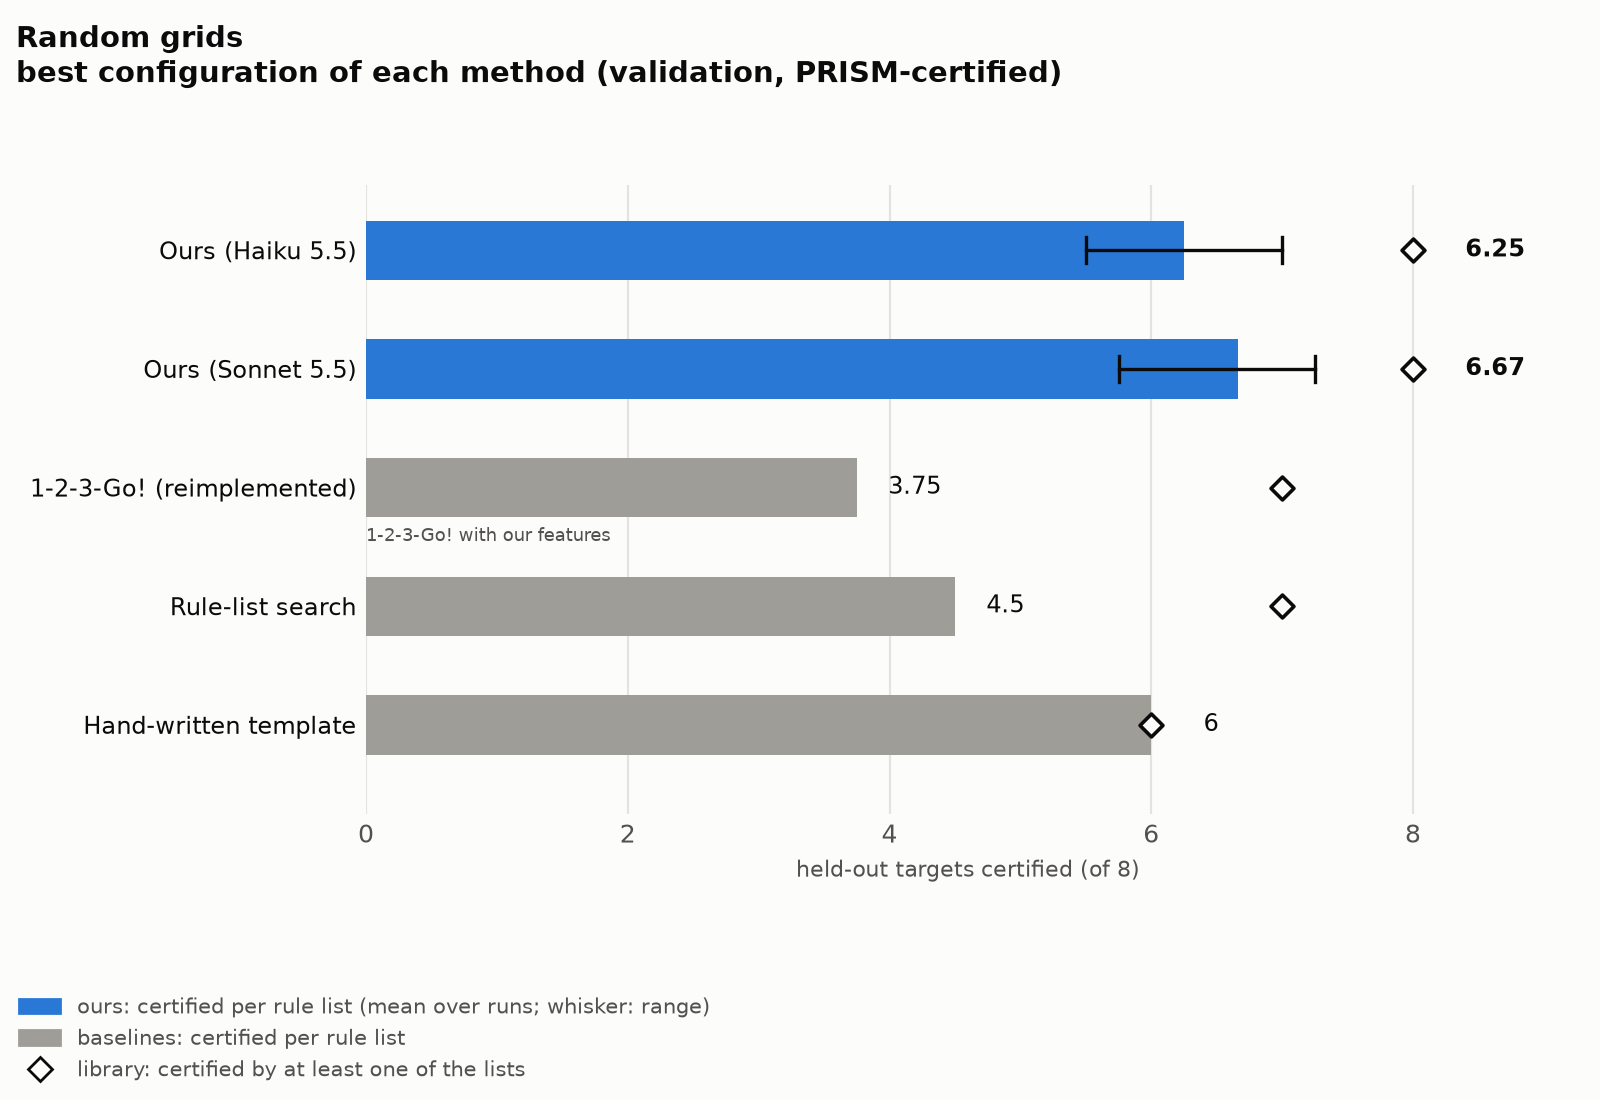
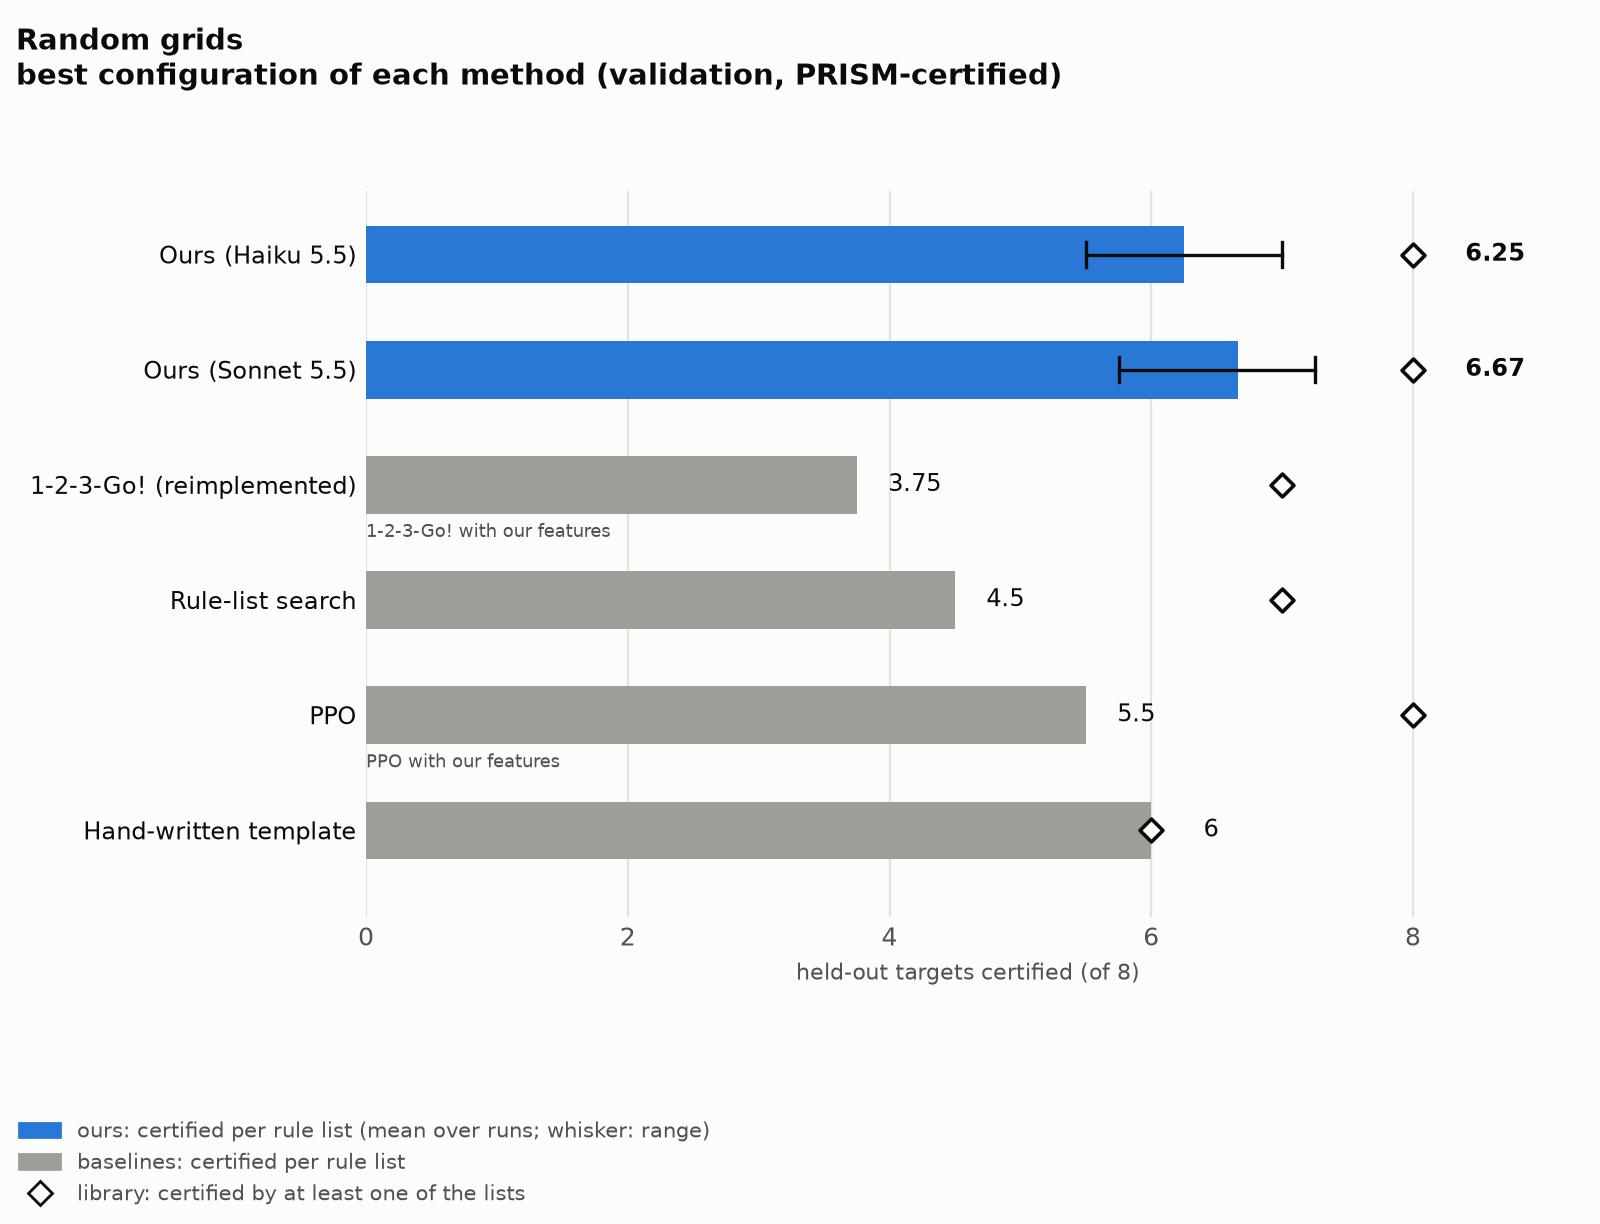
[plan 01] step 2: RQ1 complete, every baseline PRISM-certified; report, figures and index regenerated
Newly certified (held-out targets certified per rule list; best list; library):
- Random grids (8): PPO over our features 5.5 (7; 8), against 4/7/5/6 per set from the numpy model
  before; PPO with a MiniGrid-style local view 0.75 (2; 2).
- Families (60; certified on a list's own family, of 20): PPO with a local view 1.33 (rooms 4,
  crossing 0, adjacent 0); rule-list search with ties open 3.0 (rooms 7, crossing 2, adjacent 0),
  as written 6.0.
Best configuration per method (chosen.csv): PPO over our features on grids and families; trees over
our features on grids and families, and over raw variables on Pac-Man (plan 02's entries).

The Pac-Man horizon figure shows the methods of Asher's decision 2 (ours, 1-2-3-Go! reimplemented,
PPO; `methods` in horizon_figure), with the optimum, the threshold and 1-2-3-Go!'s published points;
every other Pac-Man method is in the table and in rq1_pacman.png.

RQ1 has no unchecked baseline. Still without a ties-open check: our own grid, no-closer, families and
Sonnet runs (not a baseline; the families ones are long).

Look at: out/results/experiments/rq1_comparison/REPORT.md, rq1_{grids,grids_noclose,families,pacman}.png,
rq1_pacman_horizon.png, chosen.csv; out/results/experiments/README.md.

diff --git a/PRISM-Guided-Learning/src/experiments/comparison.py b/PRISM-Guided-Learning/src/experiments/comparison.py
@@ -298,11 +298,13 @@ class Comparison(Experiment):
         spec = self.spec["horizon_figure"]
         published = spec.get("published") or {}
         beyond = {h: v for h, v in (published.get("points") or {}).items() if h > spec["max_horizon"]}
+        only = (f" The figure shows {', '.join(spec['methods'])}; the other methods are in the table above."
+                if spec.get("methods") else "")
         return (f"Worst-case {spec['value']} of each method's frozen lists (best configuration) per horizon, up to "
                 f"{spec['max_horizon']}: {spec.get('why_max', '')} Line: mean over the lists, band: their range; hollow "
                 f"markers: a list's own training horizons. {published.get('label', 'Published')}: "
                 + ", ".join(f"{v} at {h}" for h, v in (published.get("points") or {}).items())
-                + (f" ({', '.join(str(h) for h in beyond)} beyond the axis)." if beyond else "."))
+                + (f" ({', '.join(str(h) for h in beyond)} beyond the axis)." if beyond else ".") + only)
 
     def horizon_figure(self, best: Dict[Tuple[str, str], str]) -> Optional[Path]:
         """`horizon_figure` in the experiment file: one line per method (its best configuration on the benchmark),
@@ -318,7 +320,7 @@ class Comparison(Experiment):
         shown = {int(i): int(h) for i, h in horizons.items() if i not in hidden and h <= spec["max_horizon"]}
         column = f"worst_{spec['value']}"
         lines = []
-        for method in dict.fromkeys(self.methods().values()):
+        for method in spec.get("methods") or dict.fromkeys(self.methods().values()):
             name = best.get((bench.name, method))
             lists = [df[df.target.isin(shown)] for df in self._horizon_lists(bench, name)] if name else []
             lists = [df for df in lists if column in df and not df.empty]
@@ -348,9 +350,7 @@ class Comparison(Experiment):
             table = table.assign(horizon=table.target.map(shown))
             per = table.groupby("horizon")[column].agg(["mean", "min", "max"])
             ax.fill_between(per.index, per["min"], per["max"], color=color, alpha=0.15, linewidth=0, zorder=2)
-            several = sum(m == method for m in self.methods().values()) > 1
-            ax.plot(per.index, per["mean"], color=color, linewidth=2, zorder=3,
-                    label=method + (f" ({name})" if several else ""))
+            ax.plot(per.index, per["mean"], color=color, linewidth=2, zorder=3, label=method)
             trained = set(table[table.trained.astype(bool)].horizon)
             for h, v in per["mean"].items():
                 ax.plot([h], [v], marker="o", markersize=6, zorder=4, markeredgewidth=1.5,
@@ -361,9 +361,9 @@ class Comparison(Experiment):
             ax.plot(list(points), list(points.values()), linestyle="none", marker="D", markersize=8, color=BASELINE,
                     markeredgecolor=SURFACE, markeredgewidth=1.5, zorder=4, label=published.get("label", "published"))
         ends.sort()
-        for k in range(1, len(ends)):                # direct labels, kept apart
+        for k in range(1, len(ends)):                # direct labels, kept apart (up to four lines)
             ends[k][0] = max(ends[k][0], ends[k - 1][0] + 0.022)
-        for v, x, method in ends:
+        for v, x, method in ends if len(ends) <= 4 else []:
             ax.text(x_end + 0.6, v, method, fontsize=8, color=INK, va="center")
         ax.set_xticks(xs_all)
         ax.set_xlim(xs_all[0] - 0.8, x_end + 7.5)
@@ -371,7 +371,8 @@ class Comparison(Experiment):
         ax.set_xlabel("horizon (moves); hollow markers: the lists' training horizons", fontsize=8.5, color=INK_2)
         style(ax, f"{short_label(bench)}: worst-case crash probability per horizon (best configuration of each method)",
               "worst-case crash probability (lower is better)")
-        ax.legend(loc="upper left", fontsize=7.5, frameon=False, labelcolor=INK_2)
+        ax.legend(loc="upper center", bbox_to_anchor=(0.5, -0.14), ncol=3, fontsize=7.5, frameon=False,
+                  labelcolor=INK_2)
         fig.tight_layout()
         path = self.out / f"rq1_{bench.name}_horizon.png"
         fig.savefig(path, dpi=200, facecolor=SURFACE)

diff --git a/PRISM-Guided-Learning/out/results/experiments/rq1_comparison/REPORT.md b/PRISM-Guided-Learning/out/results/experiments/rq1_comparison/REPORT.md
@@ -17,8 +17,8 @@ Targets 12-19: 8 held out (each list's own training instances are left out).
 | 1-2-3-Go! (reimplemented) | 1-2-3-Go! (reimplemented: trees over raw variables) |  | – | 0.00 | 0.00 | 0 | 0.0 | 0.00 | – | – |
 | 1-2-3-Go! (reimplemented) | 1-2-3-Go! with our features | ✓ | – | 3.75 | 3.75 | 7 | 7.0 | 3.75 | – | – |
 | Rule-list search | Rule-list search | ✓ | – | 4.50 | 4.50 | 7 | 7.0 | 2.75 | – | – |
-| PPO | PPO with our features (1 unchecked) |  | – | – | – | – | – | – | – | – |
-| PPO | PPO with a MiniGrid-style local view (1 unchecked) |  | – | – | – | – | – | – | – | – |
+| PPO | PPO with our features | ✓ | – | 5.50 | 5.50 | 7 | 8.0 | 5.50 | – | – |
+| PPO | PPO with a MiniGrid-style local view |  | – | 0.75 | 0.75 | 2 | 2.0 | 0.75 | – | – |
 | Hand-written template | Hand-written template | ✓ | – | 6.00 | 6.00 | 6 | 6.0 | 6.00 | – | – |
 
 ![Random grids (grid_20_large; trained on sets of three 9x9-13x13 grids, held out: 12-19)](rq1_grids.png)
@@ -46,9 +46,9 @@ Targets 16-35,76-95,136-155: 60 held out (each list's own training instances are
 | Ours (Sonnet 5.5) | **Ours, Sonnet 5.5** | ✓ | 3 | 14.00 (12.67–15.00) | 32.33 (29.00–36.67) | 19 | 54.3 (45.0–59.0) | – | 67% | 0.787 (0.663–0.932) |
 | 1-2-3-Go! (reimplemented) | 1-2-3-Go! (reimplemented: trees over raw variables) |  | – | 0.00 | 0.00 | 0 | 0.0 | 0.00 | – | – |
 | 1-2-3-Go! (reimplemented) | 1-2-3-Go! with our features | ✓ | – | 12.33 | 20.33 | 19 | 43.0 | 12.33 | – | – |
-| Rule-list search | Rule-list search | ✓ | – | 6.00 | 11.00 | 10 | 21.0 | – | – | – |
+| Rule-list search | Rule-list search | ✓ | – | 6.00 | 11.00 | 10 | 21.0 | 3.00 | – | – |
 | PPO | PPO with our features | ✓ | – | 12.67 | 16.67 | 19 | 38.0 | 12.67 | – | – |
-| PPO | PPO with a MiniGrid-style local view (1 unchecked) |  | – | – | – | – | – | – | – | – |
+| PPO | PPO with a MiniGrid-style local view |  | – | 1.33 | 1.33 | 4 | 4.0 | 1.33 | – | – |
 | Hand-written template | Hand-written template | ✓ | – | 4.67 | 14.00 | 14 | 14.0 | 4.67 | – | – |
 
 Per group (certified per rule list on its own group):
@@ -61,7 +61,7 @@ Per group (certified per rule list on its own group):
 | 1-2-3-Go! with our features | 2.0 | 19.0 | 16.0 |
 | Rule-list search | 10.0 | 7.0 | 1.0 |
 | PPO with our features | 19.0 | 0.0 | 19.0 |
-| PPO with a MiniGrid-style local view | – | – | – |
+| PPO with a MiniGrid-style local view | 4.0 | 0.0 | 0.0 |
 | Hand-written template | 0.0 | 0.0 | 14.0 |
 
 ![Gridworld families (trained on three 6x6-8x8 members of a family, held out: 10x10-14x14 members)](rq1_families.png)
@@ -87,6 +87,6 @@ Targets 0-7,9: 6 held out (each list's own training instances are left out).
 
 ![Pac-Man (trained on horizons 14, 16, 18; 6 held out: 8, 10, 12, 20, 25, 30)](rq1_pacman.png)
 
-Worst-case crash of each method's frozen lists (best configuration) per horizon, up to 30: horizons 50 and 100 are Pac-Man's sealed test set and stay out until the test pass (200: PRISM cannot build it). Line: mean over the lists, band: their range; hollow markers: a list's own training horizons. 1-2-3-Go! (published, different setup): 0.5511 at 5, 0.869 at 25, 0.99998 at 200 (200 beyond the axis).
+Worst-case crash of each method's frozen lists (best configuration) per horizon, up to 30: horizons 50 and 100 are Pac-Man's sealed test set and stay out until the test pass (200: PRISM cannot build it). Line: mean over the lists, band: their range; hollow markers: a list's own training horizons. 1-2-3-Go! (published, different setup): 0.5511 at 5, 0.869 at 25, 0.99998 at 200 (200 beyond the axis). The figure shows Ours (Haiku 5.5), 1-2-3-Go! (reimplemented), PPO; the other methods are in the table above.
 
 ![Worst-case crash probability per horizon](rq1_pacman_horizon.png)

diff --git a/PRISM-Guided-Learning/out/results/experiments/README.md b/PRISM-Guided-Learning/out/results/experiments/README.md
@@ -2,7 +2,7 @@
 
 Generated by `python src/run_experiment.py --index` from `configs/experiments/*.yaml` and the run store (`docs/experiments.md`). Per cell and benchmark: runs found / repeats wanted (✓: complete), runs started but unfinished (pending), and the repeats `--run` would launch (missing). Cells with `launch: false` (Sonnet) need Asher's go-ahead. Validation targets only; the test set is sealed.
 
-**Missing:** 128 repeats of 40 configurations (a configuration several cells share counts once).
+**Missing:** 118 repeats of 38 configurations (a configuration several cells share counts once).
 
 RQ2 at a glance: [rq2_overview.png](rq2_overview.png) (every ablation cell against the core configuration, held-out targets certified per rule list).
 
@@ -14,12 +14,19 @@ RQ2 at a glance: [rq2_overview.png](rq2_overview.png) (every ablation cell again
 |---|---|---|---|---|
 | Ours, Haiku 5.5 | 5/5 ✓ | 5/5 ✓ | 5/5 ✓ | 5/5 ✓ |
 | Ours, Sonnet 5.5 | 3/3 ✓ |  | 3/3 ✓ |  |
-| 1-2-3-Go! (reimplemented: trees over raw variables) (baseline) | certified ✓ |  | certified ✓ |  |
-| 1-2-3-Go! with our features (baseline) | certified ✓ | certified ✓ | certified ✓ |  |
-| Rule-list search (baseline) | certified ✓ | certified ✓ | certified, **ties open unchecked** |  |
-| PPO with our features (baseline) | **unchecked** |  | certified ✓ |  |
-| PPO with a MiniGrid-style local view (baseline) | **unchecked** |  | **unchecked** |  |
+| 1-2-3-Go! (reimplemented: trees over raw variables) (baseline) | certified ✓ |  | certified ✓ | certified ✓ |
+| 1-2-3-Go! trained on horizon 5 (as the paper) (baseline) |  |  |  | certified ✓ |
+| 1-2-3-Go! with our features (baseline) | certified ✓ | certified ✓ | certified ✓ | certified ✓ |
+| 1-2-3-Go! with our features, trained on horizon 5 (baseline) |  |  |  | certified ✓ |
+| Rule-list search (baseline) | certified ✓ | certified ✓ | certified ✓ |  |
+| PPO with our features (baseline) | certified ✓ |  | certified ✓ | certified ✓ |
+| PPO over raw variables (baseline) |  |  |  | certified ✓ |
+| PPO with a MiniGrid-style local view (baseline) | certified ✓ |  | certified ✓ |  |
 | Hand-written template (baseline) | certified ✓ | certified ✓ | certified ✓ |  |
+| Uniform random policy (baseline) |  |  |  | certified ✓ |
+| Best of 1000 random policies (baseline) |  |  |  | certified ✓ |
+| Strategy of horizon 18, by moves made (baseline) |  |  |  | certified ✓ |
+| Strategy of horizon 18, by moves left (baseline) |  |  |  | certified ✓ |
 | Hand-written maze rules (baseline) |  |  |  | certified ✓ |
 
 ## [RQ2f: who resolves the open choices](rq2_choices/REPORT.md)
@@ -99,5 +106,5 @@ RQ2 at a glance: [rq2_overview.png](rq2_overview.png) (every ablation cell again
 | Random blame (placebo) | 3/5, **2 missing** | 3/5, **2 missing** | 0/5, **5 missing** |
 | No blame | 1/3, **2 missing** | 1/3, **2 missing** | 0/3, **3 missing** |
 | Results table only | 0/3, **3 missing** | 0/3, **3 missing** | 0/3, **3 missing** |
-| States named by their features | 0/5, **5 missing** | 0/5, **5 missing** | 5/5 ✓ |
+| States named by their features | 5/5 ✓ | 5/5 ✓ | 5/5 ✓ |
 | Plus a failing trace | 3/3 ✓ | 3/3 ✓ | 0/3, **3 missing** |

diff --git a/docs/experiments.md b/docs/experiments.md
@@ -78,7 +78,7 @@ Started but unfinished runs are listed as pending and never launched over. Delet
 | `reference` | ablations: the reference cell's name (default: the first) |
 | `baselines` | comparisons: {`name`, `code`, `method`, `config` (benchmark -> `configs/baselines/*.yaml`), `sources` (benchmark -> list, or group -> list), `ties` (false: one action per state, so nothing to leave open)} |
 | `method` (cells and baselines) | comparisons: the method a configuration belongs to (default: its name); figures show each method's best configuration |
-| `horizon_figure` | comparisons: a value against the horizon, one line per method: {`benchmark`, `value` (the transfer CSVs' `worst_<value>`), `horizon` (the target dataset's column), `optimum`, `threshold`, `max_horizon` (and `why_max`), `published` ({`label`, `points`: horizon -> value})}. Sealed targets are always left out |
+| `horizon_figure` | comparisons: a value against the horizon, one line per method: {`benchmark`, `methods` (optional: only these lines), `value` (the transfer CSVs' `worst_<value>`), `horizon` (the target dataset's column), `optimum`, `threshold`, `max_horizon` (and `why_max`), `published` ({`label`, `points`: horizon -> value})}. Sealed targets are always left out |
 | `prices` | model -> [$ per M prompt tokens, $ per M output tokens] |
 | `budget` | ablations: comparisons at equal cost, fixed before the runs (`rq2_feedback.yaml`): {`plot` (a `configs/plot/` file for `viz/plot_budget_transfer.py`), `reference`, `cost` (dollars), `level`, `note`, `planned`: list of {`name`, `metric` (certified or solved), `cell`, `at` (fraction of the reference's mean spend)}}. The report then opens with the planned comparisons and the budget figure |
 
